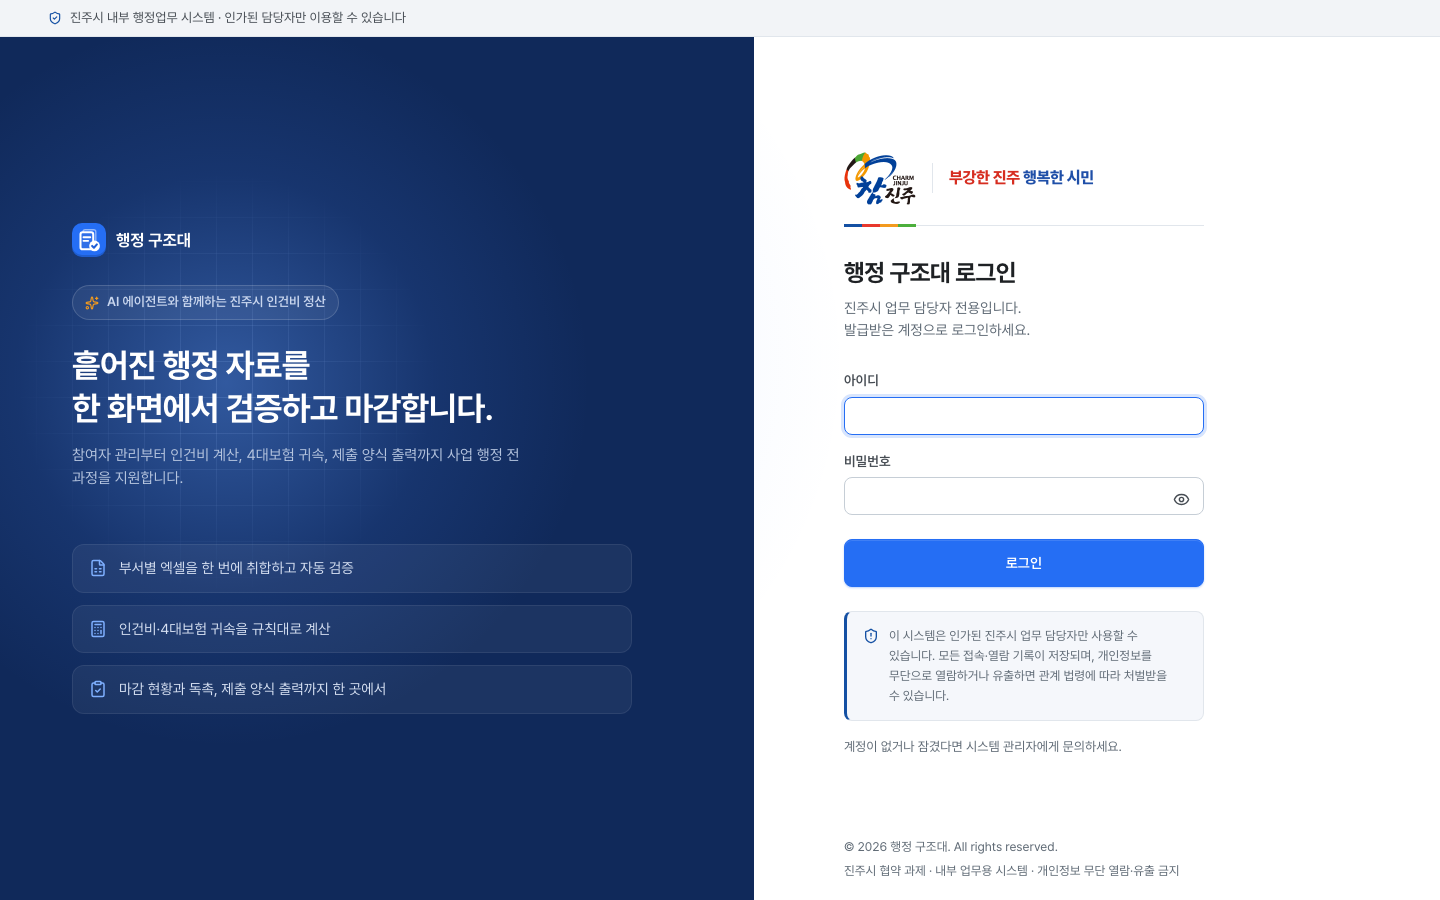
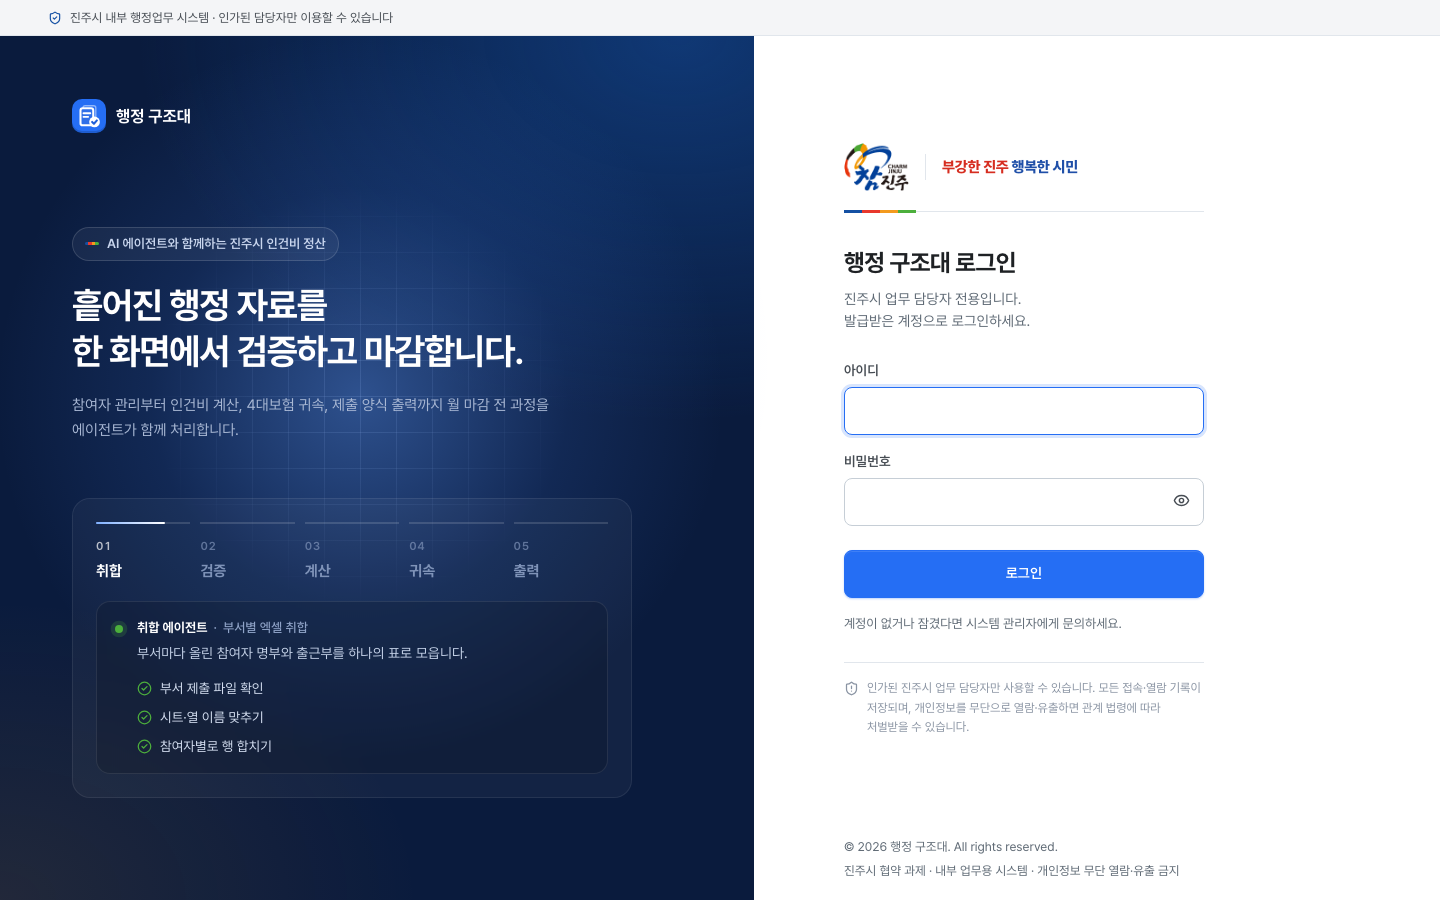
feat: 로그인 화면 다듬기와 앱 안 진주시 표시
- 왼쪽에 월 마감 5단계가 차례로 넘어가고, 단계마다 에이전트 할 일이 체크된다. 마우스를 올리거나 누르면 그 단계에 멈춘다
- 넓은 화면에서 본문을 한 덩어리로 가운데 두고 폭·글자를 키움
- 비밀번호 칸 Caps Lock 경고, 보안 안내는 덜 튀게
- 상단바 왼쪽에 참진주 로고, 사이드바 맨 위에 브랜드 4색 띠, 부제 '진주시 통합 행정 시스템'

diff --git a/src/index.css b/src/index.css
@@ -302,9 +302,6 @@ tr:hover .row-actions { opacity: 1; }
 .auth-hero > * { width: 100%; max-width: 560px; margin-left: auto; margin-right: clamp(0px, 4vw, 80px); }
 .auth-hero h2 { font-size: clamp(30px, 2.3vw, 44px); line-height: 1.3; letter-spacing: -0.02em; margin-top: 24px; }
 .auth-hero p { color: #b5c4de; margin-top: 14px; font-size: clamp(15px, 1vw, 17px); max-width: 460px; }
-.auth-feats { display: grid; gap: 12px; }
-.auth-feats div { display: flex; align-items: center; gap: 12px; color: #d6e0f2; font-size: clamp(14.5px, .9vw, 16px); padding: 12px 16px; background: rgba(255, 255, 255, .05); border: 1px solid rgba(255, 255, 255, .08); border-radius: 12px; }
-.auth-feats svg { color: #7fb0ff; }
 .auth-form { display: grid; place-items: center; padding: 32px; }
 .auth-form form { width: min(clamp(360px, 24vw, 440px), 100%); margin-right: auto; margin-left: clamp(0px, 4vw, 80px); }
 .auth-form h1 { font-size: 26px; letter-spacing: -0.02em; }
@@ -454,8 +451,6 @@ tbody tr { animation: rowIn .35s var(--ease) both; animation-delay: calc(min(var
 /* 밝은 쪽: 은은한 푸른 빛 */
 .auth-light { position: absolute; inset: 0; pointer-events: none; background: radial-gradient(640px circle at var(--gx) var(--gy), rgba(37, 110, 244, .09), transparent 65%); }
 .auth-form { position: relative; z-index: 1; }
-.auth-feats div { transition: background .25s, border-color .25s, transform .25s var(--ease); }
-.auth-feats div:hover { background: rgba(255, 255, 255, .1); border-color: rgba(127, 176, 255, .45); transform: translateX(4px); }
 
 /* ---------- 월 마감 진행 ---------- */
 /* 어두운 카드. 글자는 밝게 유지해 대비 확보 */
@@ -686,16 +681,77 @@ th { box-shadow: 0 1px 0 var(--border); }
 
 /* 로그인: 진주시 브랜드 (참진주 로고, 브랜드 4색 띠) */
 .auth { grid-template-rows: auto 1fr; }
-.auth-notice { grid-column: 1 / -1; position: relative; z-index: 2; display: flex; align-items: center; gap: 8px; padding: 8px clamp(16px, 4vw, 48px); background: #f2f4f7; border-bottom: 1px solid var(--border); font-size: 13px; color: #464c53; }
+.auth-notice { grid-column: 1 / -1; position: relative; z-index: 2; display: flex; align-items: center; gap: 8px; padding: 8px clamp(16px, 4vw, 48px); background: #f4f5f7; border-bottom: 1px solid var(--border); font-size: 12.5px; color: #464c53; }
 .auth-notice svg { color: #1450a3; flex-shrink: 0; }
-.auth-eyebrow { display: inline-flex; align-items: center; gap: 8px; width: auto !important; margin: 28px 0 0 !important; padding: 6px 12px; border: 1px solid rgba(255, 255, 255, .16); border-radius: 999px; background: rgba(255, 255, 255, .06); font-size: 13px; font-weight: 600; color: #c9d6ee; }
-.auth-eyebrow svg { color: #f39a1e; }
-.auth-org { position: relative; display: flex; align-items: center; gap: 16px; margin-bottom: 28px; padding-bottom: 20px; border-bottom: 1px solid var(--border); }
+.auth-hero { background: radial-gradient(900px 640px at 90% 0%, rgba(20, 80, 163, .55), transparent 60%), radial-gradient(700px 500px at 0% 100%, rgba(243, 154, 30, .10), transparent 60%), #0a1b3d; justify-content: space-between; padding-top: clamp(40px, 7vh, 72px); padding-bottom: clamp(40px, 7vh, 72px); }
+.auth-hero h2 { font-size: clamp(30px, 2.4vw, 46px); font-weight: 700; line-height: 1.28; letter-spacing: -0.03em; }
+.auth-hero p { color: #a9b8d4; line-height: 1.7; }
+.auth-eyebrow { display: inline-flex; align-items: center; gap: 8px; width: auto !important; margin: 0 !important; padding: 6px 12px; border: 1px solid rgba(255, 255, 255, .14); border-radius: 999px; background: rgba(255, 255, 255, .05); font-size: 13px; font-weight: 600; color: #c9d6ee; }
+.auth-eyebrow::before { content: ''; width: 14px; height: 3px; border-radius: 2px; background: linear-gradient(90deg, #1450a3 0 25%, #e8382c 25% 50%, #f39a1e 50% 75%, #4caf3c 75%); }
+
+.auth-steps ol { list-style: none; margin: 0; padding: 0; display: grid; grid-template-columns: repeat(5, 1fr); gap: 10px; }
+.auth-steps button { position: relative; display: block; width: 100%; padding: 14px 0 0; border: 0; border-top: 2px solid rgba(255, 255, 255, .14); background: none; font: inherit; text-align: left; color: #7f93b8; cursor: pointer; transition: color .25s; }
+.auth-steps button:hover, .auth-steps .on button { color: #fff; }
+.auth-steps .done button { color: #b5c4de; border-top-color: rgba(255, 255, 255, .45); }
+.auth-steps button:focus-visible { outline: 2px solid #7fb0ff; outline-offset: 4px; border-radius: 4px; }
+.auth-steps .bar { position: absolute; top: -2px; left: 0; height: 2px; width: 0; background: linear-gradient(90deg, #7fb0ff, #fff); }
+.auth-steps .on .bar { animation: step-fill 3.6s linear forwards; }
+.auth-steps.hold .on .bar { animation: none; width: 100%; }
+@keyframes step-fill { to { width: 100%; } }
+.auth-steps .num { display: block; font-size: 11.5px; font-weight: 600; letter-spacing: .06em; opacity: .7; font-variant-numeric: tabular-nums; }
+.auth-steps .lbl { display: block; margin-top: 4px; font-size: 15px; font-weight: 700; }
+.auth-agent { display: flex; gap: 14px; align-items: flex-start; margin-top: 18px; padding: 16px 18px; min-height: 84px; border-radius: 14px; background: rgba(255, 255, 255, .05); border: 1px solid rgba(255, 255, 255, .09); backdrop-filter: blur(6px); }
+.auth-agent .dot { flex-shrink: 0; width: 8px; height: 8px; margin-top: 7px; border-radius: 50%; background: #4caf3c; box-shadow: 0 0 0 0 rgba(76, 175, 60, .5); animation: agent-pulse 2s ease-out infinite; }
+@keyframes agent-pulse { 70% { box-shadow: 0 0 0 7px rgba(76, 175, 60, 0); } 100% { box-shadow: 0 0 0 0 rgba(76, 175, 60, 0); } }
+.auth-agent > div { animation: agent-in .45s var(--ease) both; }
+.auth-agent b { display: flex; align-items: center; gap: 6px; font-size: 13px; color: #fff; }
+.auth-agent b span { font-weight: 500; color: #8fa3c7; }
+.auth-agent b span::before { content: '·'; margin-right: 6px; }
+.auth-hero .auth-agent p { margin: 4px 0 0; font-size: 14px; color: #c3d0e6; max-width: none; }
+@keyframes agent-in { from { opacity: 0; transform: translateY(6px); } }
+
+.auth-org { position: relative; display: flex; align-items: center; gap: 16px; margin-bottom: 32px; padding-bottom: 20px; border-bottom: 1px solid var(--border); }
 .auth-org::after { content: ''; position: absolute; left: 0; bottom: -2px; width: 72px; height: 3px; background: linear-gradient(90deg, #1450a3 0 25%, #e8382c 25% 50%, #f39a1e 50% 75%, #4caf3c 75%); }
-.auth-org img { height: 53px; width: auto; }
-.auth-org .sep { width: 1px; height: 30px; background: var(--border); }
-.auth-org .slogan { margin: 0; padding: 0; border: 0; font-size: 16px; }
-.auth-form h1 { font-size: 24px; }
-.auth-secure { display: flex; gap: 10px; margin-top: 24px; padding: 14px 16px; background: #f5f7fb; border: 1px solid var(--border); border-left: 3px solid #1450a3; border-radius: 8px; }
-.auth-secure svg { color: #1450a3; flex-shrink: 0; margin-top: 2px; }
-.auth-form .auth-secure p { margin: 0; font-size: 12.5px; line-height: 1.6; color: var(--text-muted); }
+.auth-org img { height: 48px; width: auto; }
+.auth-org .sep { width: 1px; height: 26px; background: var(--border); }
+.auth-org .slogan { margin: 0; padding: 0; border: 0; font-size: 15px; }
+.auth-form h1 { font-size: 24px; font-weight: 700; }
+.auth-form .input { height: 48px; transition: border-color .2s, box-shadow .2s; }
+.auth-form .input:hover { border-color: #9aa6b8; }
+.auth-form .btn.primary { transition: transform .15s var(--ease), box-shadow .2s, background .2s; }
+.auth-form .btn.primary:hover:not(:disabled) { box-shadow: 0 8px 20px rgba(37, 110, 244, .28); }
+.auth-form .btn.primary:active:not(:disabled) { transform: translateY(1px); }
+.caps { display: flex; align-items: center; gap: 6px; margin-top: 6px; font-size: 12.5px; color: #b45309; }
+.auth-form .auth-help { margin: 16px 0 0; font-size: 13px; color: var(--text-muted); }
+.auth-secure { display: flex; gap: 8px; margin-top: 28px; padding-top: 16px; border-top: 1px solid var(--border); }
+.auth-secure svg { color: #8a94a3; flex-shrink: 0; margin-top: 2px; }
+.auth-form .auth-secure p { margin: 0; font-size: 12px; line-height: 1.6; color: #8a94a3; }
+@media (prefers-reduced-motion: reduce) { .auth-agent .dot, .auth-agent > div { animation: none; } }
+
+/* 넓은 화면에서 비어 보이지 않게: 본문을 한 덩어리로 가운데, 폭·글자 크기를 화면에 맞춰 키운다 */
+.auth-hero { display: grid; grid-template-rows: auto 1fr; justify-content: stretch; }
+.auth-hero > * { max-width: clamp(560px, 36vw, 760px); }
+.auth-hero-main { align-self: center; display: grid; gap: clamp(16px, 2vh, 24px); }
+.auth-hero-main h2 { margin: 4px 0 0; font-size: clamp(30px, 2.5vw, 52px); }
+.auth-hero-main > p { margin: 0; font-size: clamp(15px, .95vw, 18px); max-width: 36em; }
+.auth-steps { margin-top: clamp(16px, 4vh, 40px); padding: clamp(20px, 1.6vw, 28px); border-radius: 18px; background: rgba(255, 255, 255, .035); border: 1px solid rgba(255, 255, 255, .08); }
+.auth-agent { background: rgba(0, 0, 0, .14); }
+.auth-todo { list-style: none; margin: 12px 0 0; padding: 0; display: grid; gap: 8px; }
+.auth-todo li { display: flex; align-items: center; gap: 8px; font-size: 13.5px; color: #7f93b8; animation: todo-on .3s var(--ease) var(--d) both; }
+.auth-todo li svg { color: #4caf3c; }
+@keyframes todo-on { from { opacity: .35; filter: grayscale(1); } to { color: #d6e0f2; } }
+.auth-form form { width: min(clamp(360px, 25vw, 480px), 100%); }
+.auth-form h1 { font-size: clamp(24px, 1.4vw, 30px); }
+.auth-form p { font-size: clamp(14.5px, .8vw, 16px); }
+.auth-org img { height: clamp(48px, 3vw, 60px); }
+.auth-org .slogan { font-size: clamp(15px, .85vw, 17px); }
+@media (prefers-reduced-motion: reduce) { .auth-todo li { animation: none; color: #d6e0f2; } }
+.auth-eyebrow { justify-self: start; }
+.auth-form { padding-bottom: 88px; }
+
+/* 앱 안 진주시 표시: 상단바 왼쪽 참진주 로고, 사이드바 맨 위 브랜드 4색 띠 */
+.org-mark { display: flex; align-items: center; padding-right: 16px; margin-right: 4px; border-right: 1px solid var(--border); flex-shrink: 0; border-radius: 4px; }
+.org-mark img { height: 32px; width: auto; display: block; }
+.org-mark:focus-visible { outline: 2px solid var(--primary); outline-offset: 4px; }
+.sidebar::before { content: ''; display: block; flex-shrink: 0; height: 3px; background: linear-gradient(90deg, #1450a3 0 25%, #e8382c 25% 50%, #f39a1e 50% 75%, #4caf3c 75%); }
+@media (max-width: 640px) { .org-mark { display: none; } }

diff --git a/src/App.jsx b/src/App.jsx
@@ -2,8 +2,8 @@ import { Component, useCallback, useEffect, useMemo, useRef, useState } from 're
 import { createPortal } from 'react-dom'
 import { BrowserRouter, Navigate, NavLink, Route, Routes, useLocation, useNavigate } from 'react-router-dom'
 import {
-  Bell, Building2, CircleHelp, CalendarCheck, CalendarClock, Calculator, CheckCircle2, ChevronDown, ChevronRight, ClipboardCheck, Command, Eye, EyeOff,
-  FileDown, FileSpreadsheet, GitCompare, KeyRound, LayoutDashboard, Loader2, LogOut, PanelLeftClose, PanelLeftOpen, ScanLine, Sparkles,
+  Bell, Building2, CircleHelp, CalendarCheck, CalendarClock, Calculator, CheckCircle2, ChevronDown, ChevronRight, Command, Eye, EyeOff,
+  FileDown, FileSpreadsheet, GitCompare, KeyRound, LayoutDashboard, Loader2, LogOut, PanelLeftClose, PanelLeftOpen, ScanLine,
   ScrollText, Search, Send, ShieldAlert, ShieldCheck, Trash2, TriangleAlert, Users as UsersIcon, UserCog, Wallet, XCircle,
 } from 'lucide-react'
 import { api, getToken, setToken } from './api'
@@ -78,11 +78,49 @@ class PageBoundary extends Component {
 
 const NARROW = '(max-width: 1279px)'
 
-const FEATS = [
-  [FileSpreadsheet, '부서별 엑셀을 한 번에 취합하고 자동 검증'],
-  [Calculator, '인건비·4대보험 귀속을 규칙대로 계산'],
-  [ClipboardCheck, '마감 현황과 독촉, 제출 양식 출력까지 한 곳에서'],
+const STEPS = [
+  ['취합', '부서별 엑셀 취합', '부서마다 올린 참여자 명부와 출근부를 하나의 표로 모읍니다.', ['부서 제출 파일 확인', '시트·열 이름 맞추기', '참여자별로 행 합치기']],
+  ['검증', '오류 자동 검증', '주민번호·계좌·근무일이 맞지 않는 행을 찾아 담당자에게 알립니다.', ['주민번호 형식 확인', '계좌번호·예금주 대조', '근무일 범위 확인']],
+  ['계산', '인건비 계산', '근무일과 단가로 인건비를 계산하고, 금액마다 계산 근거를 남깁니다.', ['근무일 × 일 단가', '주휴·초과근무 반영', '계산 근거 기록']],
+  ['귀속', '4대보험 귀속', '사업별 4대보험 부담분을 나눠 예산 항목에 귀속합니다.', ['국민연금·건강보험 산정', '고용·산재보험 산정', '사업별 예산 항목 귀속']],
+  ['출력', '지급·제출 양식', '지급 명세와 기관 제출 양식을 바로 내려받을 수 있게 만듭니다.', ['지급 명세서 만들기', '기관 제출 양식 만들기', '담당자 확인 요청']],
 ]
+const STEP_MS = 3600
+
+// 로그인 화면 왼쪽: 월 마감 5단계를 차례로 보여 주고, 마우스를 올리거나 누르면 그 단계에 멈춘다
+function AuthSteps() {
+  const [i, setI] = useState(0)
+  const [hold, setHold] = useState(false)
+  const still = typeof matchMedia === 'function' && matchMedia('(prefers-reduced-motion: reduce)').matches
+  useEffect(() => {
+    if (hold || still) return
+    const t = setTimeout(() => setI((n) => (n + 1) % STEPS.length), STEP_MS)
+    return () => clearTimeout(t)
+  }, [i, hold, still])
+  const [k, title, text, todo] = STEPS[i]
+  return (
+    <div className={'auth-steps' + (hold || still ? ' hold' : '')} onPointerEnter={() => setHold(true)} onPointerLeave={() => setHold(false)} onFocus={() => setHold(true)} onBlur={() => setHold(false)}>
+      <ol>
+        {STEPS.map(([k], n) => (
+          <li key={k} className={n === i ? 'on' : n < i ? 'done' : ''}>
+            <button type="button" aria-pressed={n === i} onClick={() => setI(n)} onPointerEnter={() => setI(n)}>
+              <span className="bar" key={n === i ? `${i}-${hold}` : 'x'} aria-hidden="true" />
+              <span className="num">{String(n + 1).padStart(2, '0')}</span>
+              <span className="lbl">{k}</span>
+            </button>
+          </li>
+        ))}
+      </ol>
+      <div className="auth-agent">
+        <span className="dot" aria-hidden="true" />
+        <div key={i}>
+          <b>{k} 에이전트<span>{title}</span></b><p>{text}</p>
+          <ul className="auth-todo">{todo.map((t, n) => <li key={t} style={{ '--d': `${0.35 + n * 0.75}s` }}><CheckCircle2 size={15} />{t}</li>)}</ul>
+        </div>
+      </div>
+    </div>
+  )
+}
 
 // 모든 화면 맨 아래 저작권·이용 안내
 // 자리 비움 화면: 일정 시간 작동이 없거나 상단 버튼을 누르면 개인정보가 보이지 않게 화면을 가린다
@@ -141,6 +179,7 @@ function Footer() {
 function Login({ onLogin }) {
   const [v, setV] = useState({ username: '', password: '' })
   const [show, setShow] = useState(false)
+  const [caps, setCaps] = useState(false)
   const [error, setError] = useState(null)
   const [busy, setBusy] = useState(false)
   const submit = async (e) => {
@@ -168,13 +207,13 @@ function Login({ onLogin }) {
       <div className="auth-notice"><ShieldCheck size={14} />진주시 내부 행정업무 시스템 · 인가된 담당자만 이용할 수 있습니다</div>
       <div className="auth-light" aria-hidden="true" />
       <aside className="auth-hero">
-        <div>
-          <div className="brand" style={{ padding: 0 }}><Logo />행정 구조대</div>
-          <div className="auth-eyebrow"><Sparkles size={14} />AI 에이전트와 함께하는 진주시 인건비 정산</div>
+        <div className="brand" style={{ padding: 0 }}><Logo />행정 구조대</div>
+        <div className="auth-hero-main">
+          <div className="auth-eyebrow">AI 에이전트와 함께하는 진주시 인건비 정산</div>
           <h2>흩어진 행정 자료를<br />한 화면에서 검증하고 마감합니다.</h2>
-          <p>참여자 관리부터 인건비 계산, 4대보험 귀속, 제출 양식 출력까지 사업 행정 전 과정을 지원합니다.</p>
+          <p>참여자 관리부터 인건비 계산, 4대보험 귀속, 제출 양식 출력까지 월 마감 전 과정을 에이전트가 함께 처리합니다.</p>
+          <AuthSteps />
         </div>
-        <div className="auth-feats">{FEATS.map(([I, t]) => <div key={t}><I size={18} />{t}</div>)}</div>
       </aside>
       <div className="auth-form">
         <form onSubmit={submit}>
@@ -190,14 +229,15 @@ function Login({ onLogin }) {
             <label className="field"><span>아이디</span><input className="input" autoFocus autoComplete="username" required value={v.username} onChange={(e) => setV({ ...v, username: e.target.value })} /></label>
             <label className="field"><span>비밀번호</span>
               <div className="pw">
-                <input className="input" type={show ? 'text' : 'password'} autoComplete="current-password" required value={v.password} onChange={(e) => setV({ ...v, password: e.target.value })} />
+                <input className="input" type={show ? 'text' : 'password'} autoComplete="current-password" required value={v.password} onChange={(e) => setV({ ...v, password: e.target.value })} onKeyDown={(e) => setCaps(e.getModifierState('CapsLock'))} onKeyUp={(e) => setCaps(e.getModifierState('CapsLock'))} onBlur={() => setCaps(false)} aria-describedby={caps ? 'caps' : undefined} />
                 <button type="button" className="icon-btn" style={{ width: 36, height: 36 }} onClick={() => setShow(!show)} aria-label={show ? '비밀번호 숨기기' : '비밀번호 보기'}>{show ? <EyeOff size={17} /> : <Eye size={17} />}</button>
               </div>
+              {caps && <small id="caps" className="caps"><TriangleAlert size={13} />Caps Lock이 켜져 있습니다</small>}
             </label>
             <button className="btn primary" style={{ height: 48, marginTop: 8 }} disabled={busy}>{busy && <Loader2 size={16} className="spin" />}{busy ? '로그인 중…' : '로그인'}</button>
           </div>
-          <div className="auth-secure"><ShieldAlert size={16} /><p>이 시스템은 인가된 진주시 업무 담당자만 사용할 수 있습니다. 모든 접속·열람 기록이 저장되며, 개인정보를 무단으로 열람하거나 유출하면 관계 법령에 따라 처벌받을 수 있습니다.</p></div>
-          <p className="muted" style={{ fontSize: 13, marginTop: 16 }}>계정이 없거나 잠겼다면 시스템 관리자에게 문의하세요.</p>
+          <p className="auth-help">계정이 없거나 잠겼다면 시스템 관리자에게 문의하세요.</p>
+          <div className="auth-secure"><ShieldAlert size={15} /><p>인가된 진주시 업무 담당자만 사용할 수 있습니다. 모든 접속·열람 기록이 저장되며, 개인정보를 무단으로 열람·유출하면 관계 법령에 따라 처벌받을 수 있습니다.</p></div>
         </form>
         <Footer />
       </div>
@@ -380,7 +420,7 @@ function Shell({ user, logout, setUser }) {
   return (
     <div className={`shell${collapsed ? ' collapsed' : ''}`}>
       <aside className="sidebar" onMouseOver={onTip} onFocus={onTip} onMouseLeave={() => setTip(null)} onBlur={() => setTip(null)} onScroll={() => setTip(null)}>
-        <button type="button" className="brand" onClick={toggle} data-tip="메뉴 펼치기" title={collapsed ? undefined : '메뉴 접기'} aria-expanded={!collapsed}><Logo /><span className="brand-text">행정 구조대<small>통합 행정 시스템</small></span></button>
+        <button type="button" className="brand" onClick={toggle} data-tip="메뉴 펼치기" title={collapsed ? undefined : '메뉴 접기'} aria-expanded={!collapsed}><Logo /><span className="brand-text">행정 구조대<small>진주시 통합 행정 시스템</small></span></button>
         <nav className="nav" aria-label="주 메뉴">
           {groups.map(([g, list]) => {
             const open = collapsed || opened.has(g)
@@ -412,6 +452,7 @@ function Shell({ user, logout, setUser }) {
       </aside>
       <div className="main">
         <header className={`topbar${scrolled ? ' scrolled' : ''}`}>
+          <a className="org-mark" href="https://www.jinju.go.kr" target="_blank" rel="noreferrer" title="진주시청 누리집 (새 창)"><img src="/jinju-logo.png" alt="진주시" width="44" height="32" /></a>
           {cur && <div className="crumb">{cur[5]}<ChevronRight size={14} /><b>{cur[1]}</b></div>}
           <div className="spacer" />
           <ContextBar />
